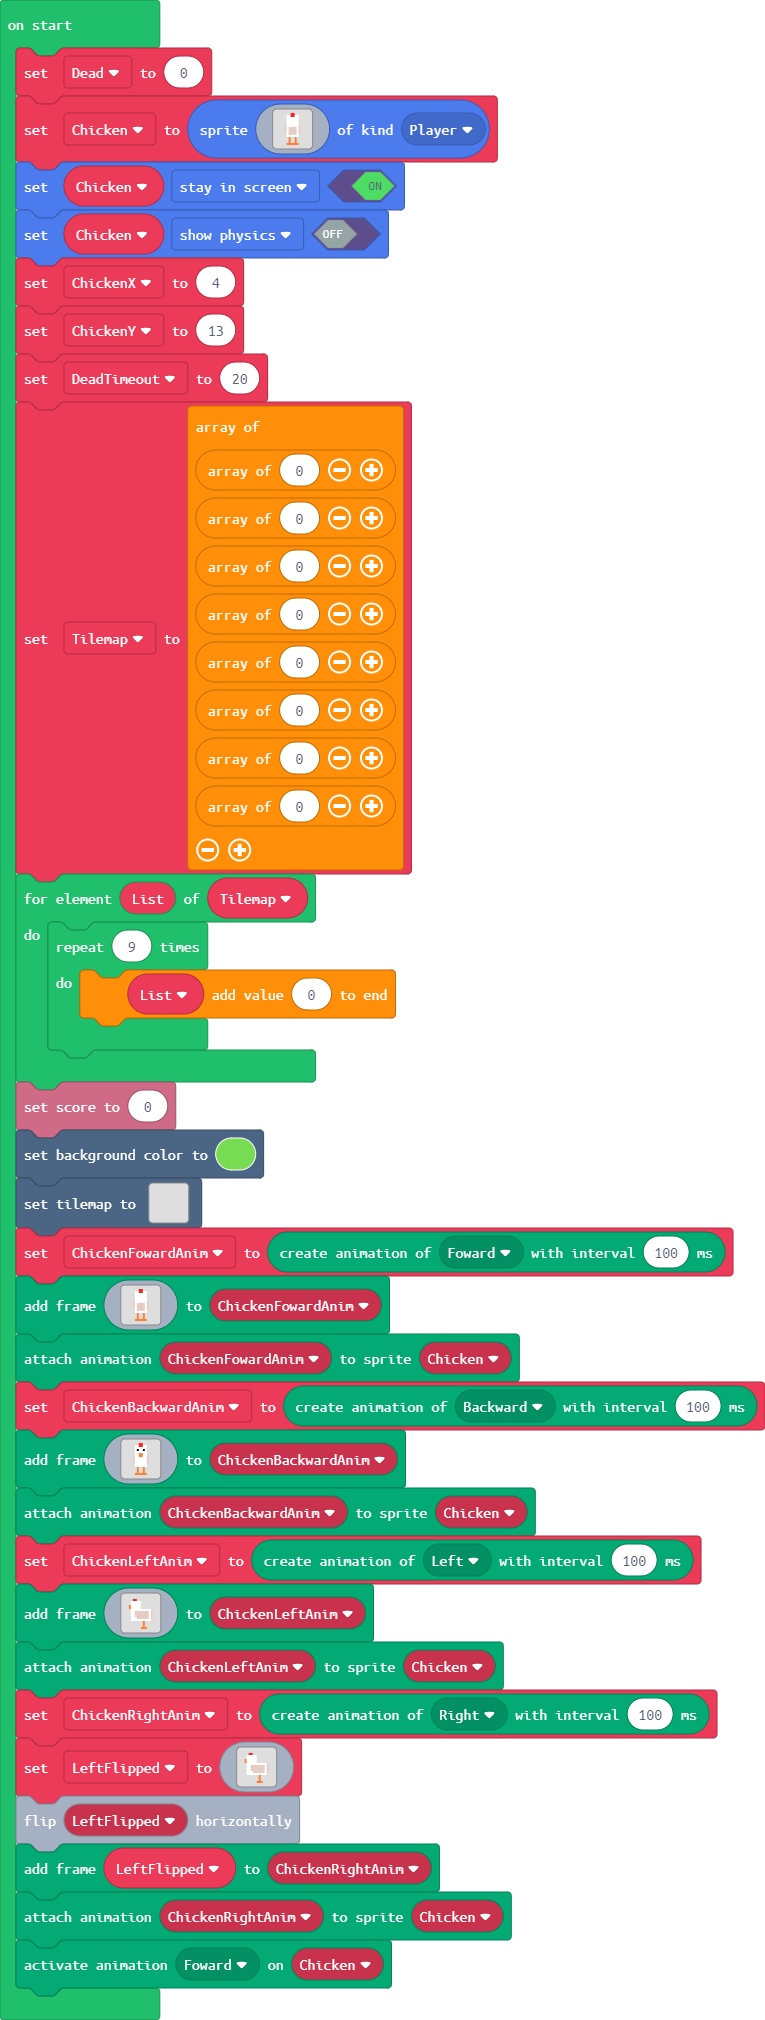
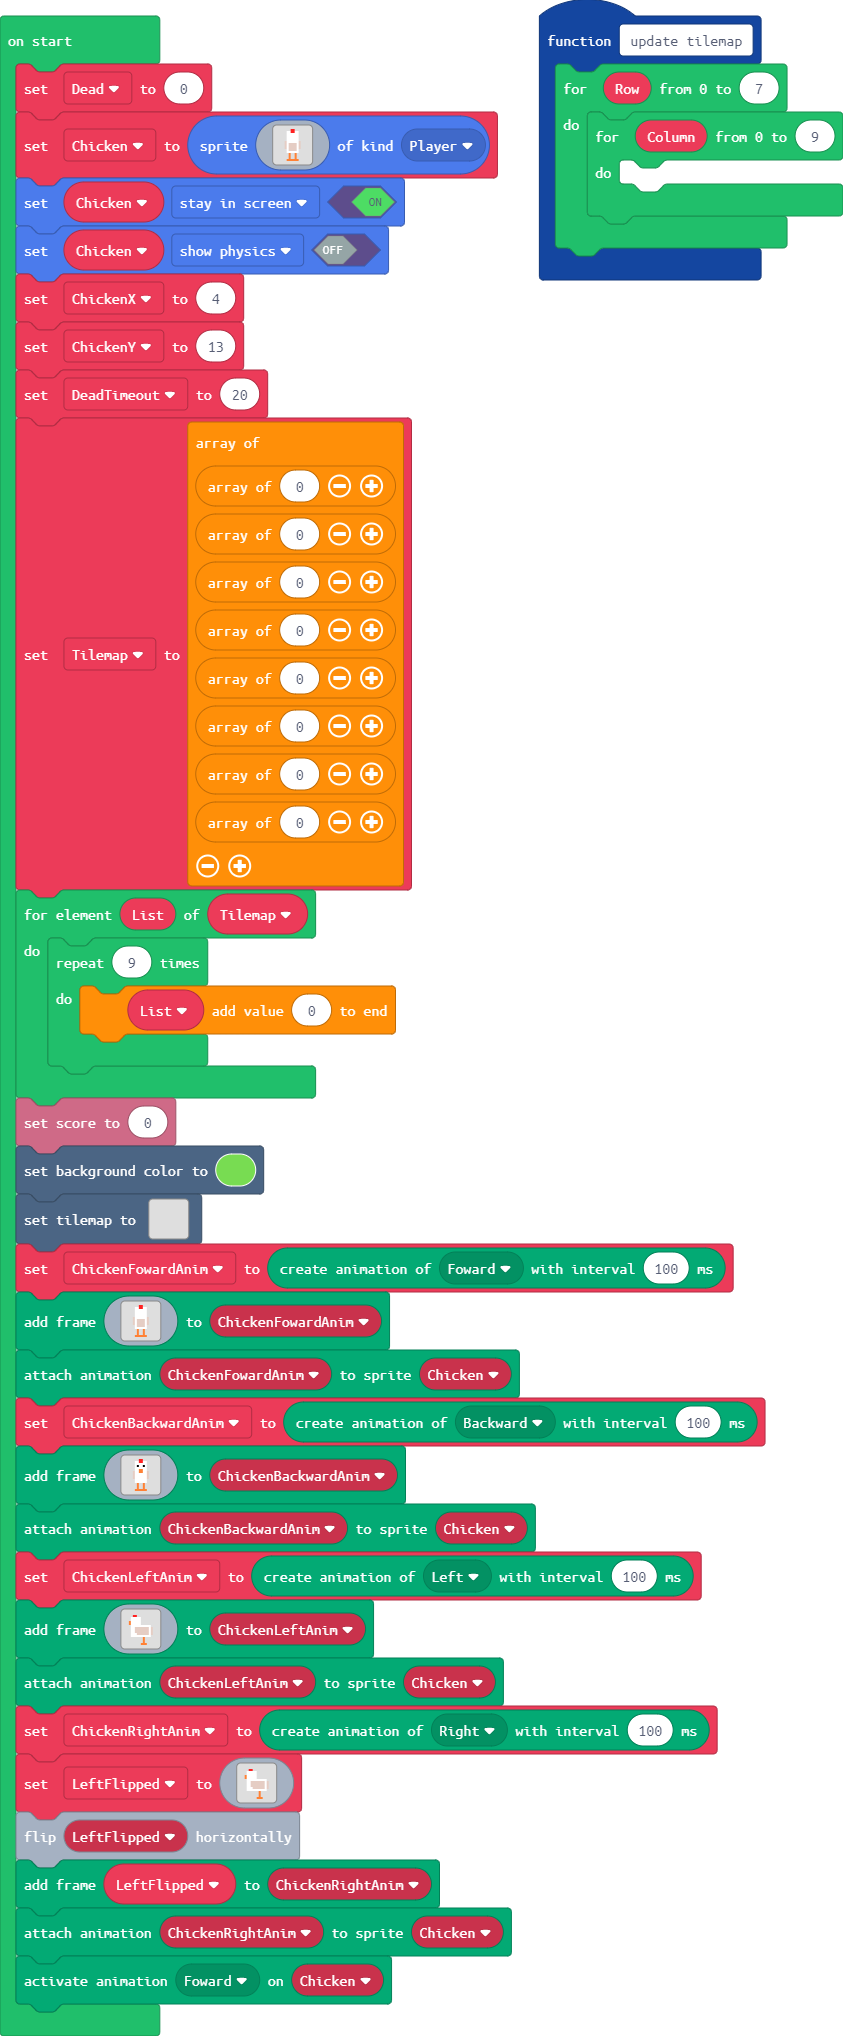
Started working on function to update tilemap from array

Changed region(s): [[0.0, 0.0, 1.0, 1.0]]

diff --git a/main.ts b/main.ts
@@ -7,6 +7,13 @@ enum ActionKind {
     Idle,
     Jumping
 }
+function update_tilemap () {
+    for (let Row = 0; Row <= 7; Row++) {
+        for (let Column = 0; Column <= 9; Column++) {
+        	
+        }
+    }
+}
 let Dead = 0
 let Chicken = sprites.create(img`
 . . . . . . . 2 2 . . . . . . . 
